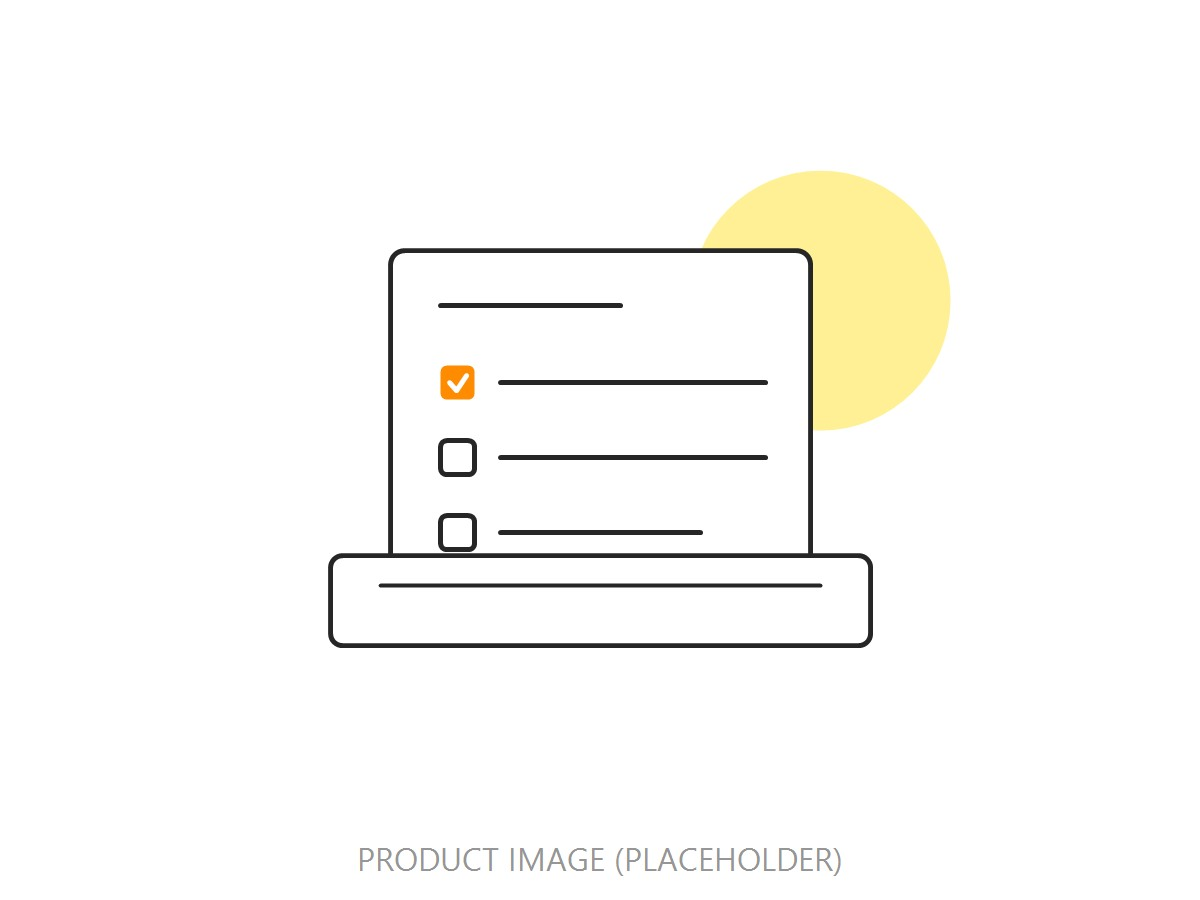
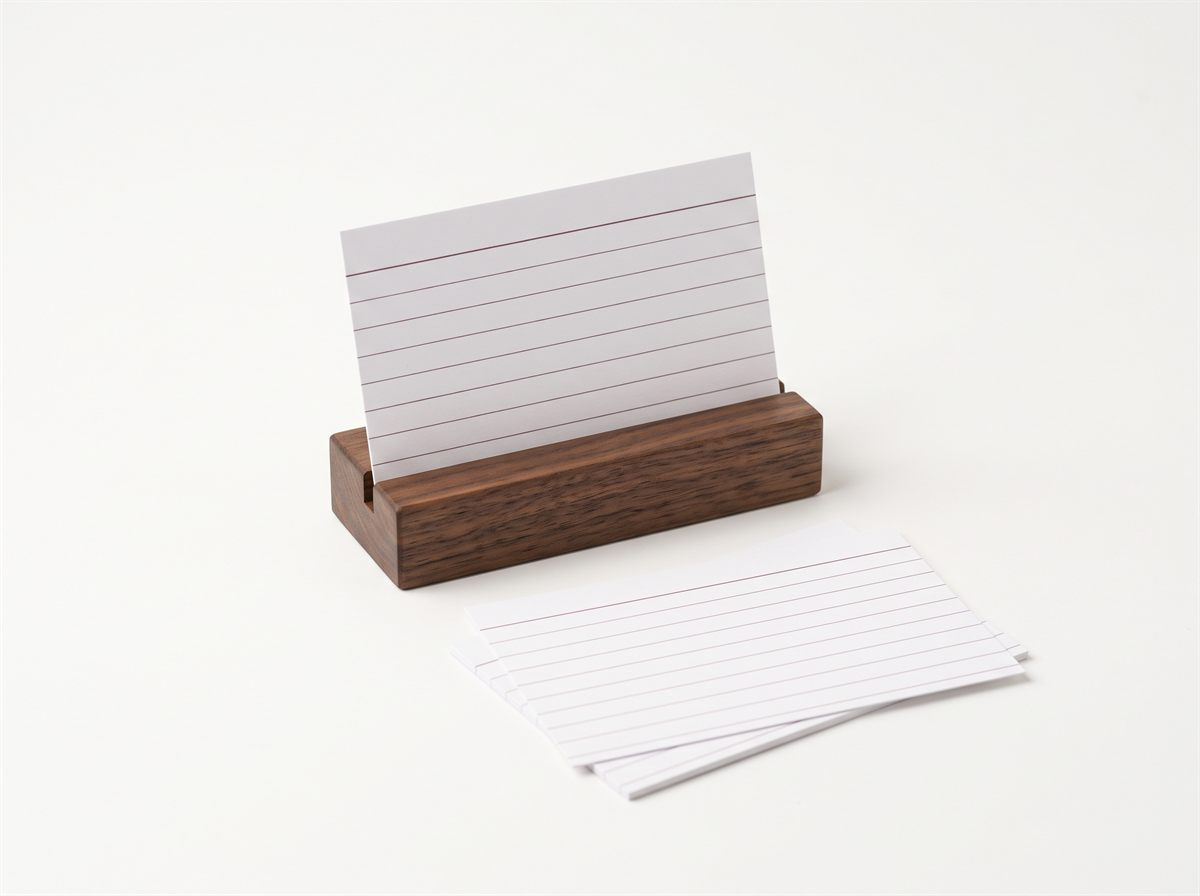
SELECT #02の商品画像を実写風に差し替え
ウォールナットのカードスタンドと罫線入りインデックスカードの実写風画像を
生成して差し替えた。特定製品の再現ではなくカテゴリの一般イメージとして
オリジナルにデザインしたもの。ロゴ・文字は入っていない。

あわせて「※商品画像はイメージです」の注記をSELECT #02のカードにも追加。
両カードとも景表法対応が揃った。

Changed region(s): [[0.2467, 0.1562, 0.8633, 0.9062], [0.3083, 0.9375, 0.7092, 0.9688], [0.4625, 0.8438, 0.5242, 0.875]]

diff --git a/index.html b/index.html
@@ -95,7 +95,7 @@ document.addEventListener('DOMContentLoaded',lbl);})();</script>
 
       <article class="prod reveal">
         <div class="prod__media">
-          <img src="assets/img/select02-hero.jpg" alt="ToDoリストカードとウォールナットのカードスタンド">
+          <img src="assets/img/select02-hero.jpg" alt="ToDoカードとウォールナットのカードスタンド（イメージ）">
           <span class="ribbon">SELECT #02</span>
         </div>
         <div class="prod__body">
@@ -103,6 +103,7 @@ document.addEventListener('DOMContentLoaded',lbl);})();</script>
           <h3 class="prod__name">ToDoカード＋ウォールナット台<small>Mind Design インデックスカード プランナー</small></h3>
           <p class="prod__price">¥5,000台<small>販売はAmazon（US輸入・価格と納期は販売ページで確認）</small></p>
           <p class="prod__copy">やることを確認するためにスマホを開く。その瞬間に通知とフィードへ持っていかれる。今日の分だけを3×5インチのカードに書き、木の台に立てて机に置く。光らない、鳴らない、他の何かに連れて行かれない。日付なしのカード130枚組。</p>
+          <p class="prod__note">※商品画像はイメージです。実際の製品の仕様・デザインはAmazonの販売ページでご確認ください。</p>
           <div class="prod__actions">
             <a class="btn btn-amazon" href="https://www.amazon.co.jp/dp/B0BT73XYQG?tag=detoxnewsst-22" target="_blank" rel="noopener sponsored">Amazonで見る</a>
           </div>
